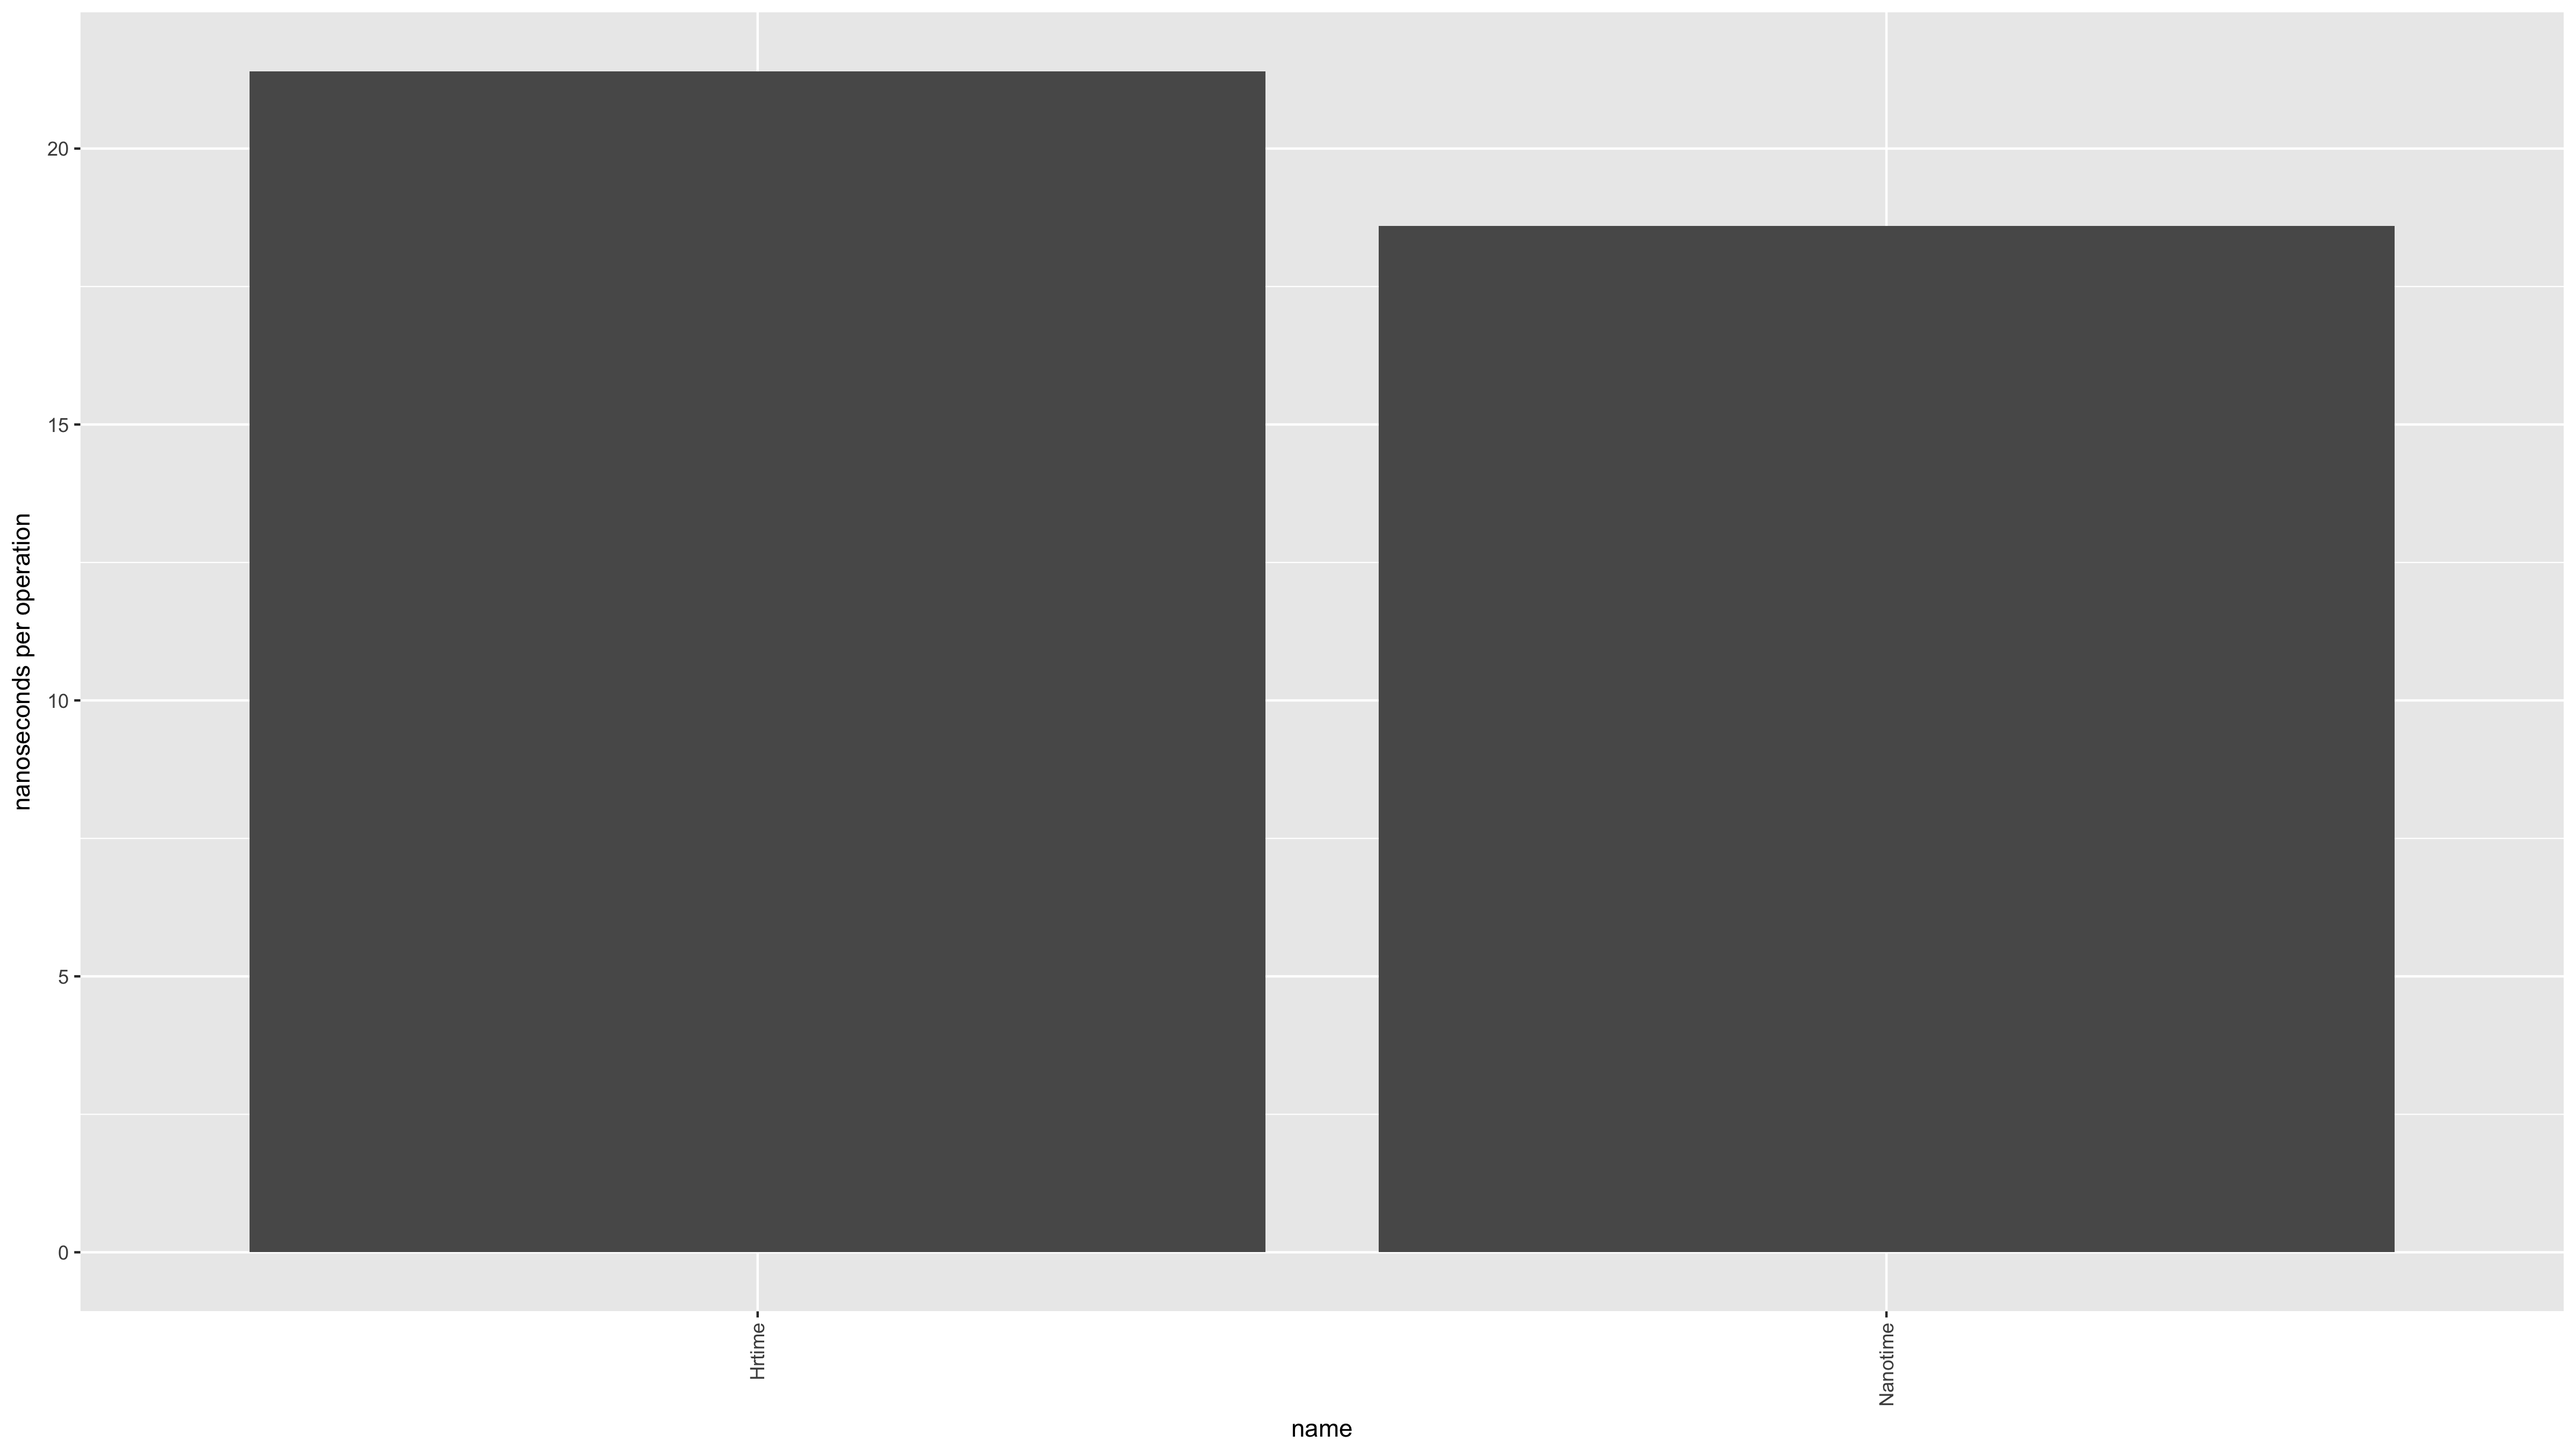
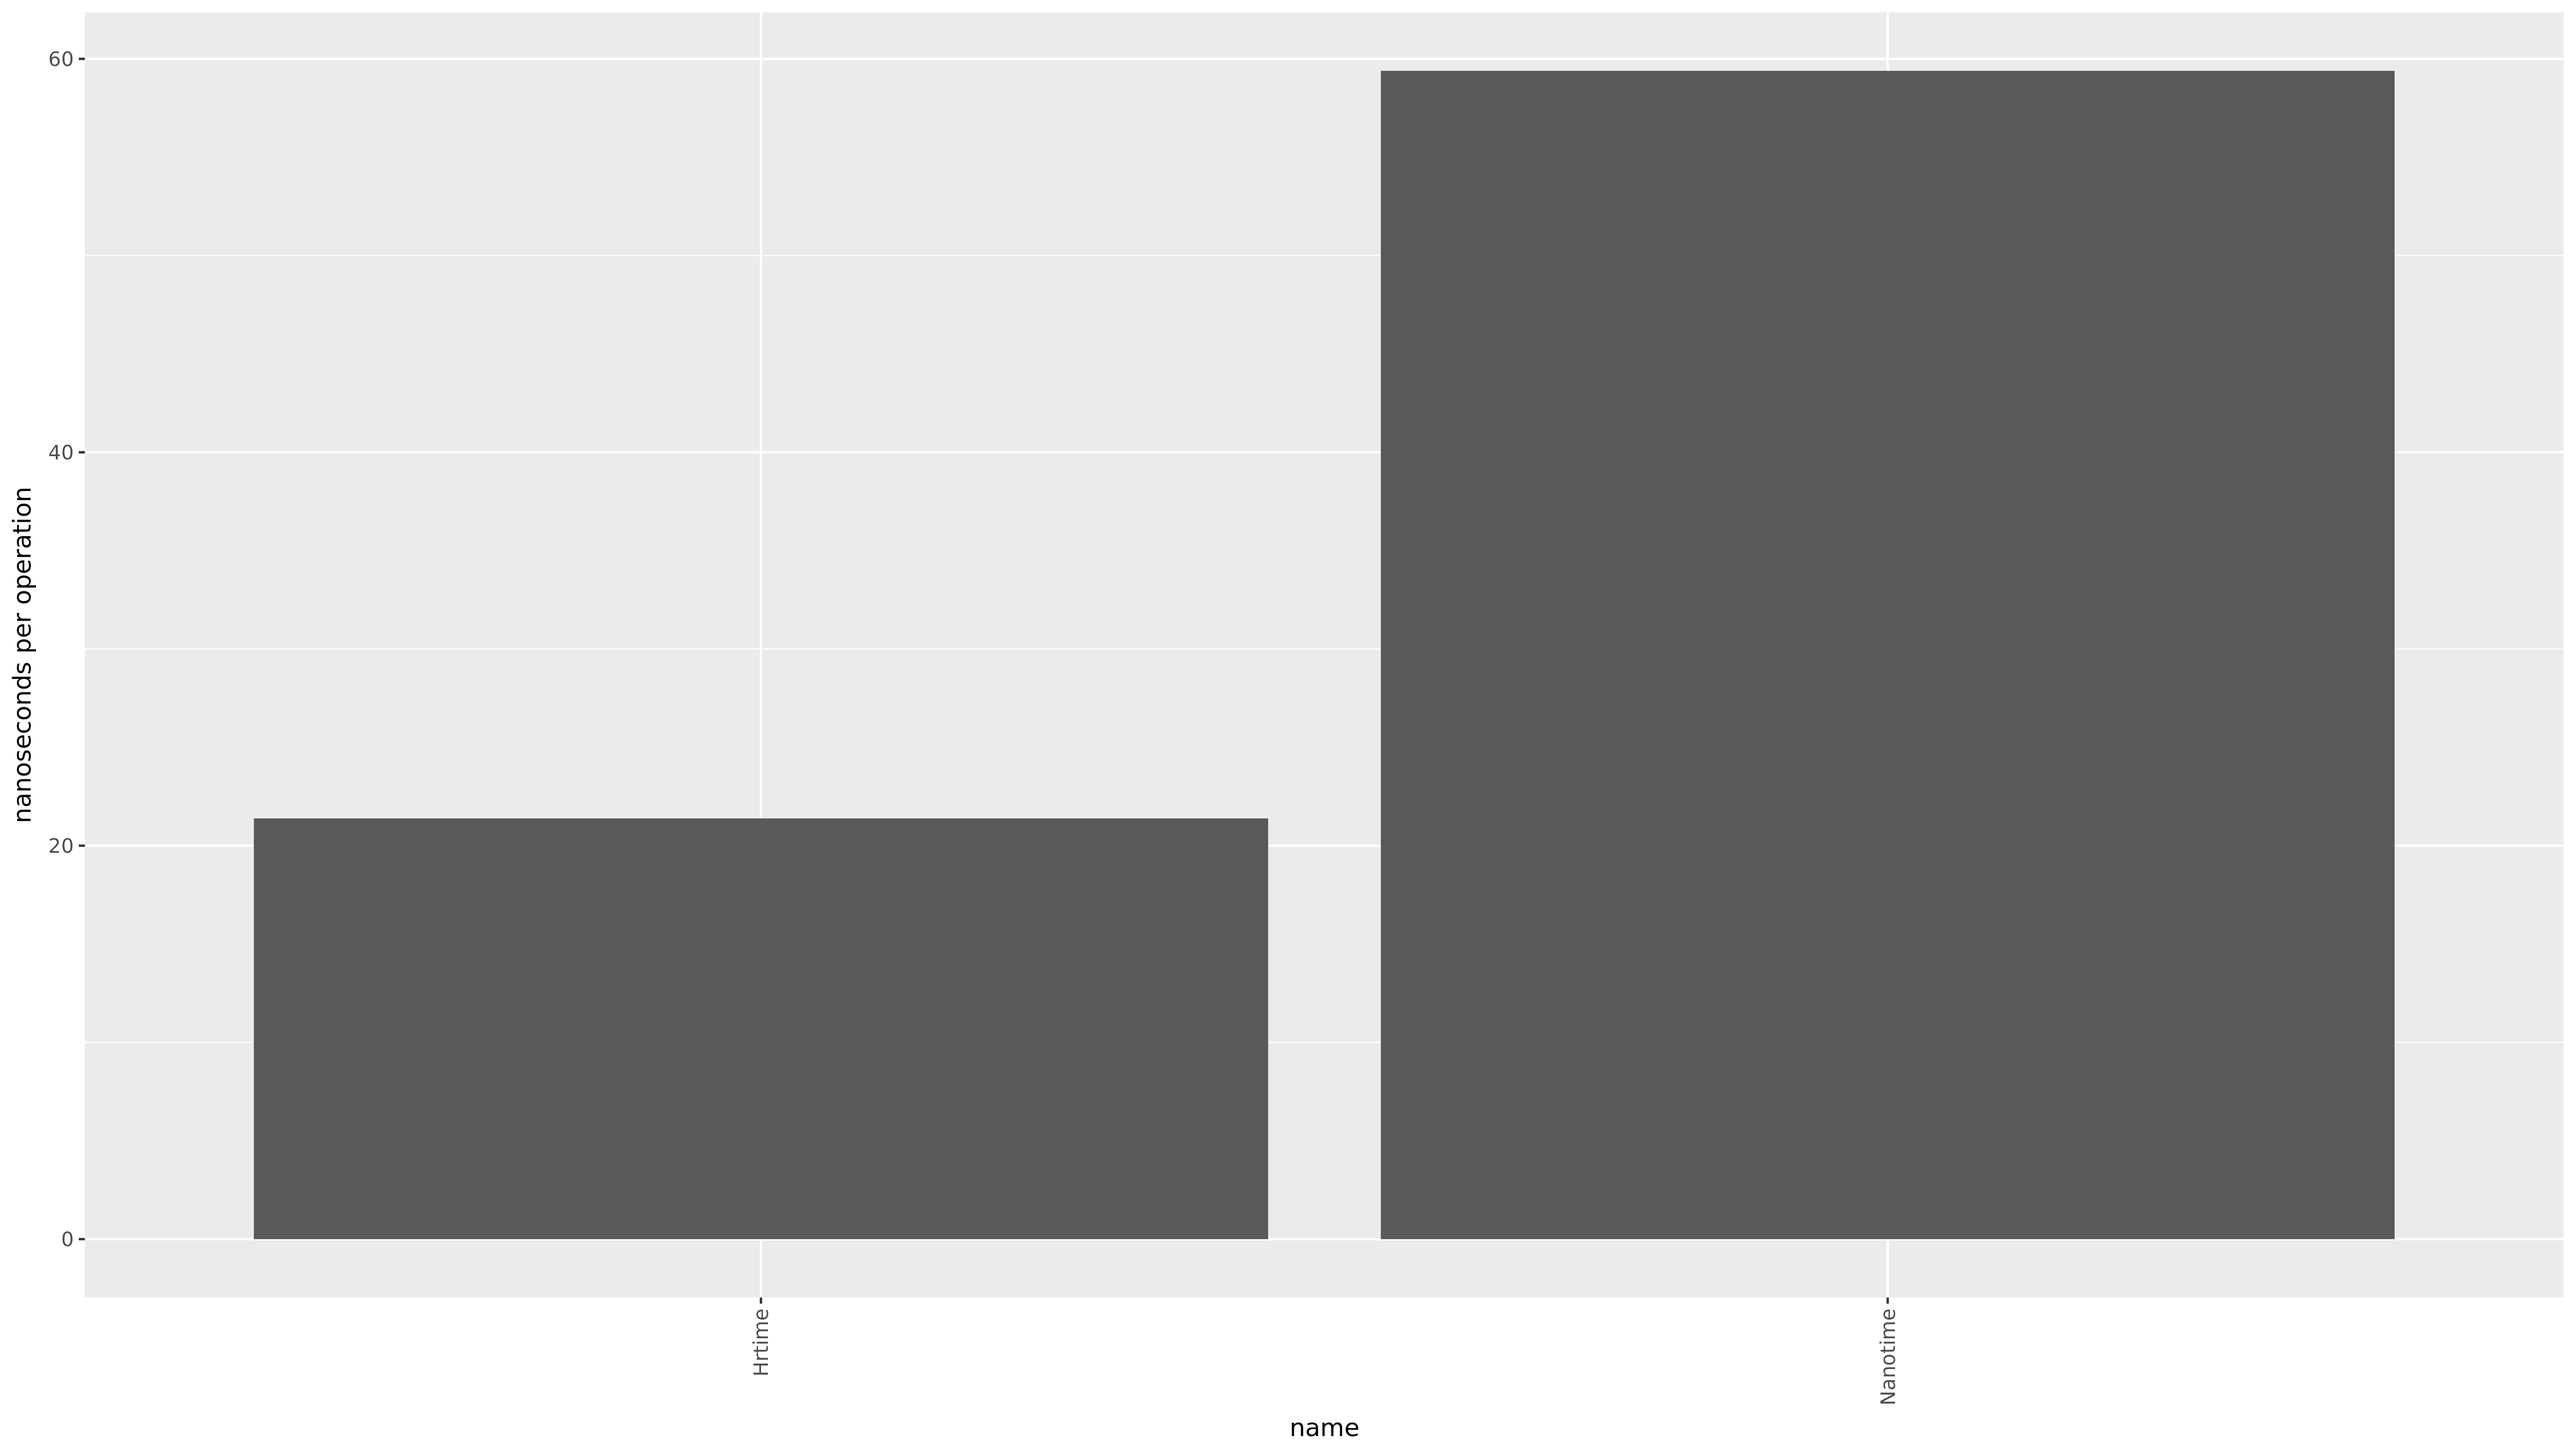
Updating results from benchmark server.

diff --git a/time/README.md b/time/README.md
@@ -38,11 +38,11 @@ Memory: 126 GB
 ```
 make queues
 
-goos: darwin
+goos: linux
 goarch: amd64
 pkg: github.com/kellabyte/go-benchmarks/time
-BenchmarkNanotime-8   	100000000	        18.9 ns/op	  53.00 MB/s	       0 B/op	       0 allocs/op
-BenchmarkHrtime-8     	100000000	        20.6 ns/op	  48.61 MB/s	       0 B/op	       0 allocs/op
+BenchmarkNanotime-40    	20000000	        59.4 ns/op	  16.82 MB/s	       0 B/op	       0 allocs/op
+BenchmarkHrtime-40      	100000000	        21.4 ns/op	  46.76 MB/s	       0 B/op	       0 allocs/op
 PASS
-ok  	github.com/kellabyte/go-benchmarks/time	11.624s
+ok  	github.com/kellabyte/go-benchmarks/time	11.010s
 ```
